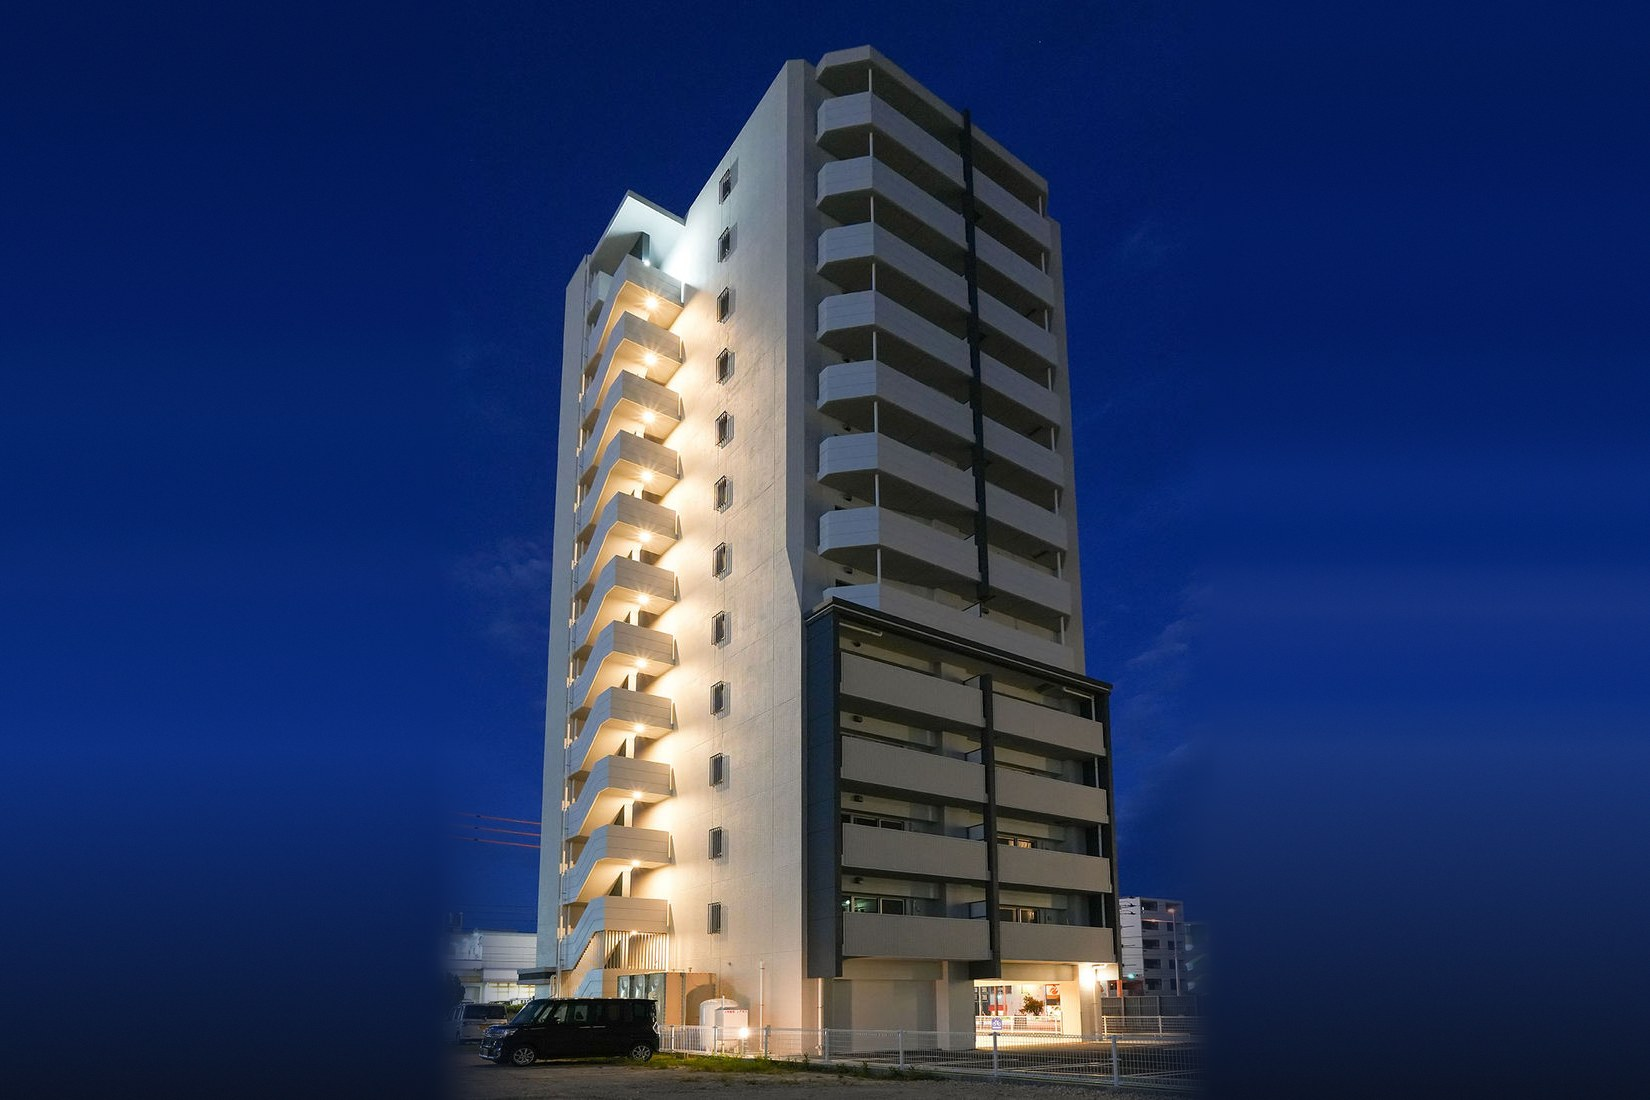
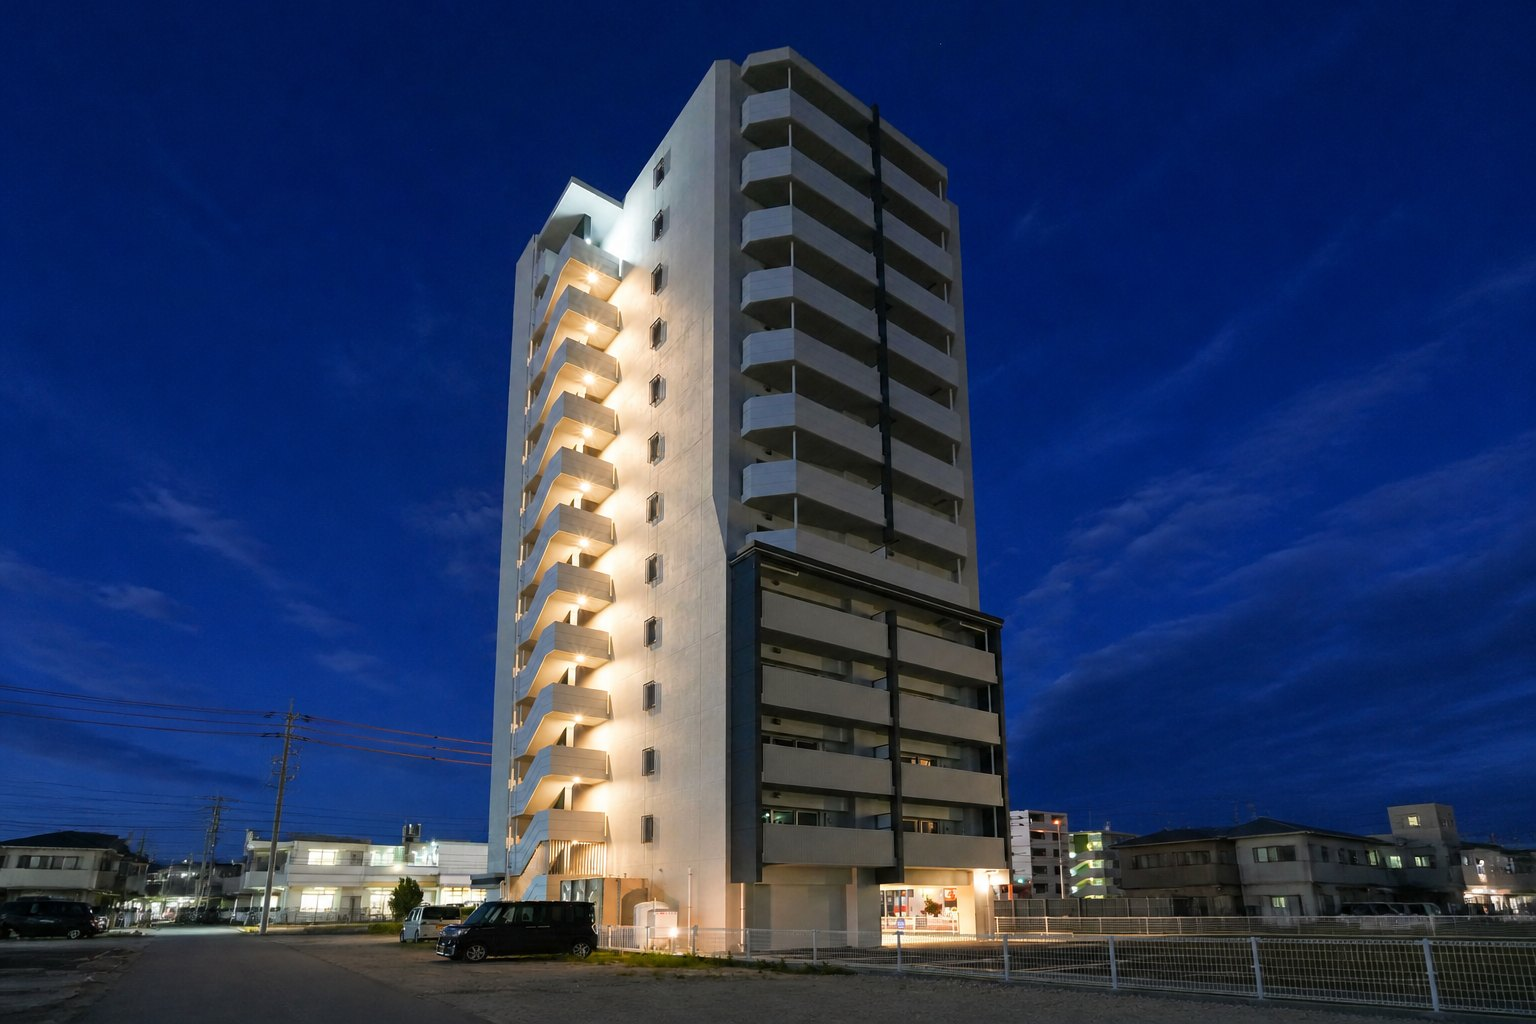
松川の写真を実写風に延長した横長版に差替え（トップ・開発実績）
Claude-Session: https://claude.ai/code/session_01BbcYSDdbsKaduH23qZ3epW

diff --git a/projects.html b/projects.html
@@ -82,7 +82,7 @@
 <article style="display: flex; flex-direction: column; gap: 32px">
 <div style="display: flex; flex-wrap: wrap; gap: 40px 64px; align-items: flex-start">
 <div style="flex: 999 1 560px; min-width: 0">
-<div style="aspect-ratio: 3 / 2; background: #EEF0F2; overflow: hidden"><img loading="lazy" src="images/matsukawa-01.jpg" alt="沖縄松川住宅プロジェクト 外観" style="width: 100%; height: 100%; object-fit: contain; display: block"></div>
+<div style="aspect-ratio: 3 / 2; background: #EEF0F2; overflow: hidden"><img loading="lazy" src="images/matsukawa-01-wide.jpg" alt="沖縄松川住宅プロジェクト 外観" style="width: 100%; height: 100%; object-fit: cover; display: block"></div>
 </div>
 <div style="flex: 1 1 340px; min-width: 0; display: flex; flex-direction: column; gap: 20px">
 <div style="display: flex; gap: 10px; flex-wrap: wrap">
